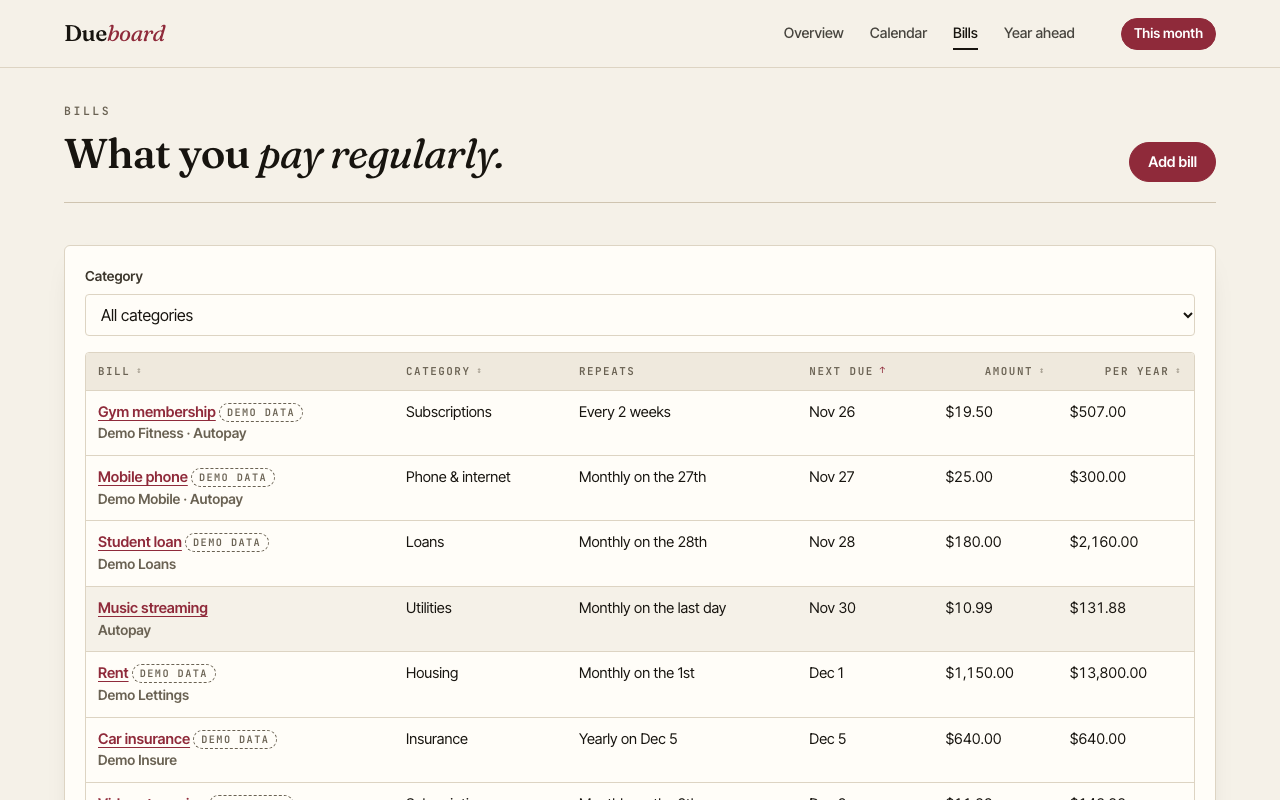
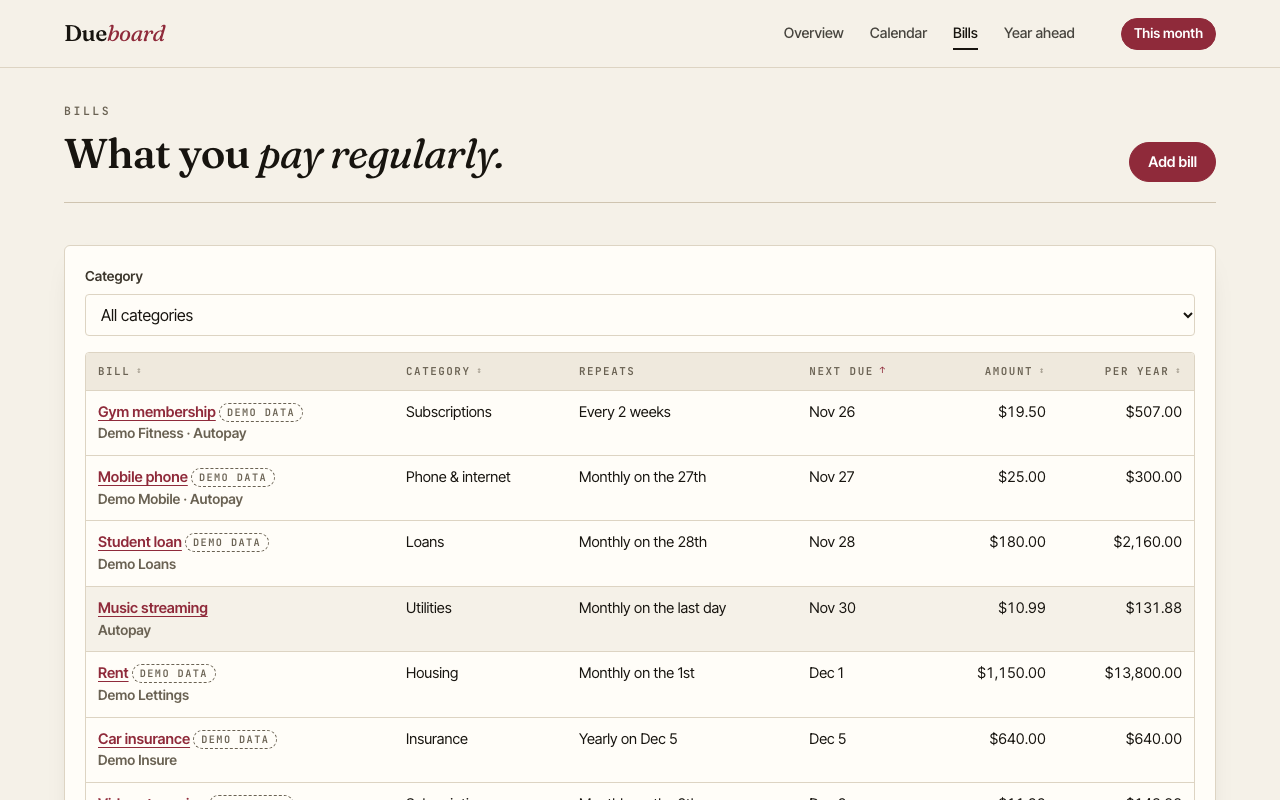
Right-align numbers in tables

diff --git a/src/shared/base.css b/src/shared/base.css
@@ -1256,7 +1256,8 @@ table.table {
   text-align: right;
   font-variant-numeric: tabular-nums;
 }
-.table th.num {
+.table th.num,
+.table td.num {
   text-align: right;
 }
 
